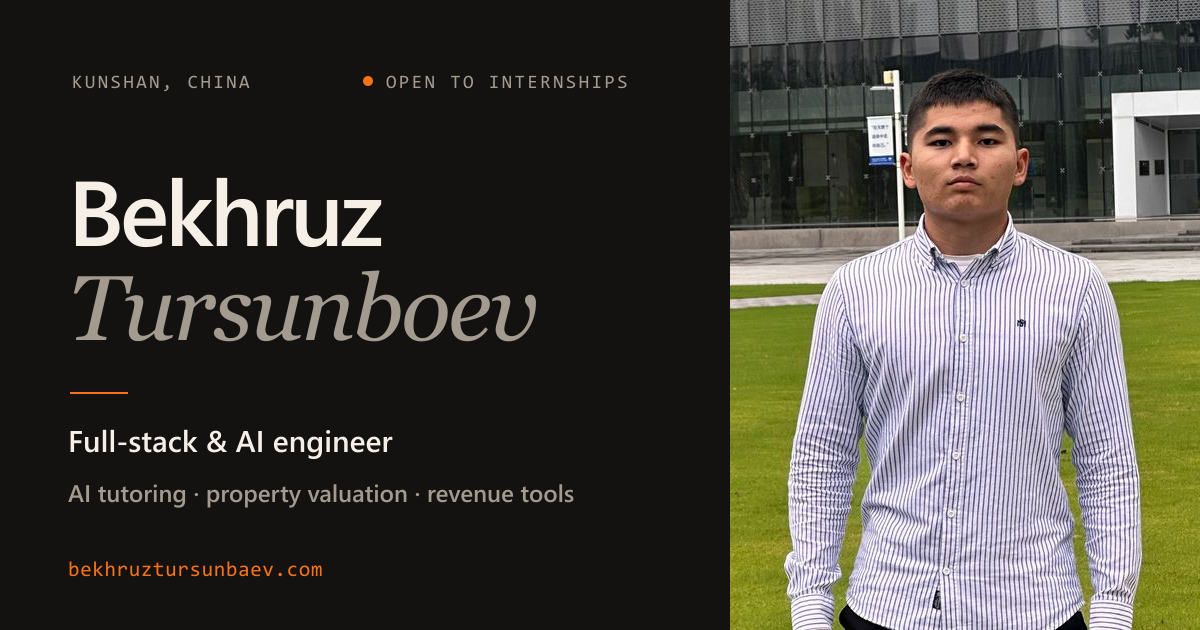
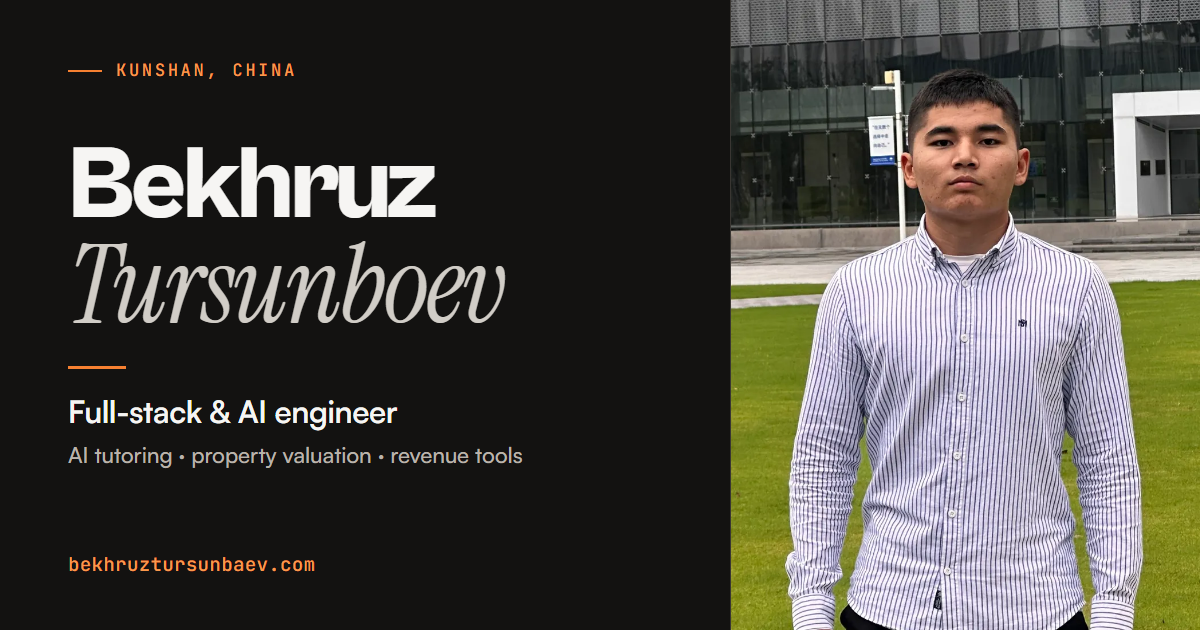
Fix the share card, add Uzbek 404 and card, localise drawer labels
The social share card still read "OPEN TO INTERNSHIPS". The phrase was removed
from the page earlier, but the card image was never regenerated, so every link
preview on Telegram and LinkedIn kept showing it. It was also drawn with sharp's
SVG text, which can only use fonts installed on the build machine, so it
rendered in Segoe UI and Georgia rather than the site's typefaces.

scripts/make-og.mjs now renders the card in a real browser with the site's own
self-hosted fonts inlined, takes its copy from src/i18n.mjs -- the same place
the page reads it from, so the two cannot drift again -- and refuses to write a
card whose fonts did not load or whose text overflows. One card per language:
og.png and og-uz.png, wired into og:image, twitter:image and the ProfilePage
schema. The build now fails if a language's card is missing, since it is
referenced by absolute URL and the existing asset check cannot see it.

Also:
- /uz/404.html. Workers serves the nearest 404.html up the path, so a dead link
  under /uz/ now gets the Uzbek page. Verified live: 404 status, lang="uz".
- The drawer's aria-label was a hard-coded English literal in motion.js, so on
  the Uzbek page it flipped back to English the first time the menu opened. It
  now reads per-language labels from the markup.
- The preview server returned the root 404 page with a 200 status for every
  miss, so it could not show a missing per-language 404 and made broken links
[…]

diff --git a/src/motion.js b/src/motion.js
@@ -102,7 +102,13 @@
 
       root.toggleAttribute("data-menu-open", open);
       menuToggle.setAttribute("aria-expanded", open ? "true" : "false");
-      menuToggle.setAttribute("aria-label", open ? "Close section menu" : "Open section menu");
+      // Labels come from the markup so they are in the page's own language. A
+      // literal here flipped the Uzbek page's label back to English on first open.
+      menuToggle.setAttribute(
+        "aria-label",
+        (open ? menuToggle.dataset.labelClose : menuToggle.dataset.labelOpen) ||
+          menuToggle.getAttribute("aria-label")
+      );
       // Lock the page behind the drawer without losing scroll position.
       document.body.style.overflow = open ? "hidden" : "";
 

diff --git a/README.md b/README.md
@@ -25,15 +25,25 @@ npm run build     # -> dist/
 npm run serve     # preview dist/ on :4321
 npm run images    # regenerate the portrait from personal_shoot.JPG
 npm run shots     # re-screenshot every live project
-npm run og        # regenerate the social share card
+npm run og        # render the share cards, one per language, in the site's own fonts
+npm run fonts     # re-fetch the webfonts and check they carry the required glyphs
+npm run logos     # re-fetch the institution logos
+npm run vitals    # LCP, CLS and WCAG contrast on the deployed site, both themes
+npm run audit     # touch targets, focus order, reduced motion (needs npm run serve)
 ```
 
 ## Editing content
 
-Every fact on the page lives in [`src/site.mjs`](src/site.mjs) — nothing is
-duplicated in markup, so a number, date or link is changed in exactly one place.
-`src/render.mjs` turns that into HTML, `src/styles.css` holds the design tokens,
-`src/motion.js` is the whole client runtime.
+Every fact lives in [`src/site.mjs`](src/site.mjs) and every interface string in
+[`src/i18n.mjs`](src/i18n.mjs) — nothing is duplicated in markup, so a number,
+date, link or label is changed in exactly one place. `src/render.mjs` turns them
+into HTML, `src/styles.css` holds the design tokens, `src/motion.js` is the whole
+client runtime.
+
+The site is built in English at `/` and Uzbek at `/uz/`, each a complete page
+with its own 404 and share card. A field that reads the same in both languages
+is a plain string; one that differs is `{ en, uz }`. The Uzbek copy uses U+2019
+for the oʻ and gʻ marks, because none of the webfonts carry U+02BB.
 
 ## Deploying
 
